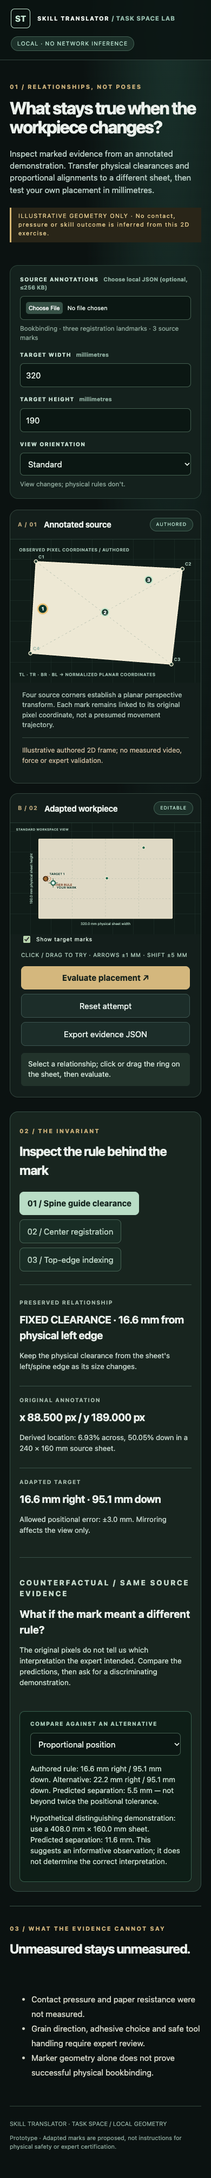
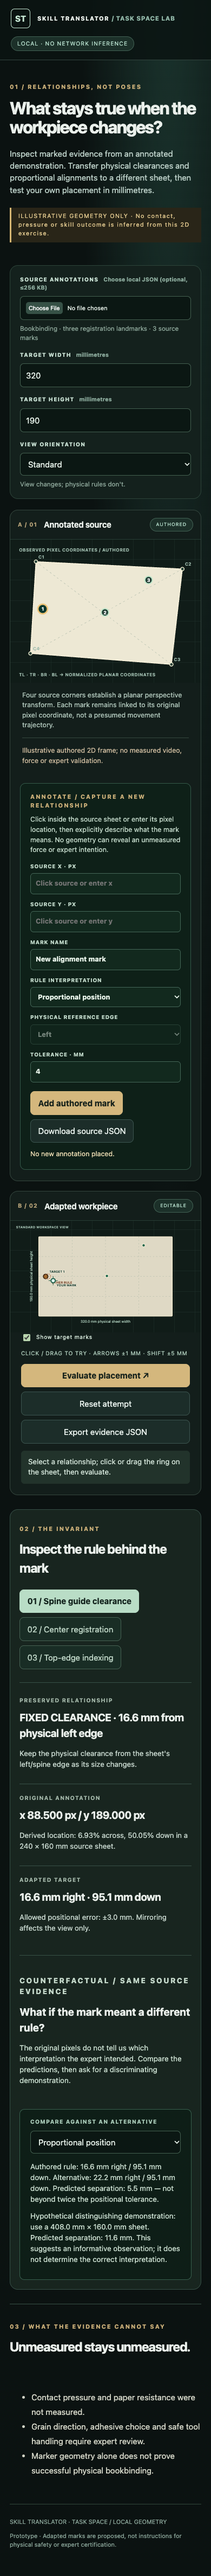
feat: add transactional task-mark authoring in the browser

Changed region(s): [[0.0308, 0.0, 0.9231, 0.9958], [0.8923, 0.3423, 0.9231, 0.3734], [0.8923, 0.1867, 0.9231, 0.2178]]

diff --git a/web/styles.css b/web/styles.css
@@ -56,7 +56,18 @@ svg{display:block;width:100%;height:auto;touch-action:none;user-select:none}
 .detail-label{color:#a3b7a9;font-size:.68rem;letter-spacing:.13em;font-weight:700}
 .main-detail{font-size:1.3rem;font-weight:690;margin:9px 0;letter-spacing:-.025em}
 .detail-grid p:not(.main-detail){color:#c3d3ca;font-size:.89rem}
- .hypothesis-box{margin-top:26px;padding-top:23px;border-top:1px solid #385147;display:grid;grid-template-columns:1fr 1.3fr;gap:28px}
+ .author-panel{padding:17px 18px;margin:8px 18px 20px;background:#0e2018;border:1px solid #345949;border-radius:10px}
+.author-panel .eyebrow{margin:0 0 8px}
+.author-intro{color:#bed4c5;font-size:.83rem;line-height:1.5;margin:0 0 14px}
+.author-grid{display:grid;grid-template-columns:1fr 1fr;gap:12px}
+.author-grid label{font-size:.65rem;letter-spacing:.08em;color:#bdd5c6;font-weight:730;display:block}
+.author-grid input,.author-grid select{display:block;width:100%;min-width:0;border:1px solid #456758;color:#e7f3e9;background:#12291e;padding:9px;border-radius:6px;font-size:.84rem;letter-spacing:0;margin-top:5px}
+.author-grid select:disabled{opacity:.46}
+.author-wide{grid-column:1/-1}
+.author-actions{display:flex;flex-wrap:wrap;gap:8px;margin-top:16px}
+.author-status{color:#e4d6ad;min-height:20px;font-size:.83rem;margin:12px 0 0}
+.source-draft{fill:#ca862e;stroke:#fbf3d8;stroke-width:3;stroke-dasharray:4 2}
+.hypothesis-box{margin-top:26px;padding-top:23px;border-top:1px solid #385147;display:grid;grid-template-columns:1fr 1.3fr;gap:28px}
 .hypothesis-box h3{font-size:1.3rem;margin:6px 0}.hypothesis-box p{color:#c5d9cb;font-size:.9rem}
 .hypothesis-results{padding:15px 19px;background:#0e1e17;border:1px solid #38604d;border-radius:9px}
 .hypothesis-results label{display:block;color:#a3c4b2;font-size:.68rem;letter-spacing:.12em;font-weight:750;margin-bottom:9px}
@@ -68,4 +79,4 @@ svg{display:block;width:100%;height:auto;touch-action:none;user-select:none}
 footer{border-top:1px solid #31473c;padding:24px 0 40px;display:flex;gap:30px;justify-content:space-between;color:#8ba69a;font-size:.73rem}
 @media(max-width:1080px){.toolbar{grid-template-columns:repeat(2,minmax(0,1fr))}.workspace{grid-template-columns:1fr}.detail-grid{gap:12px}}
 @media(max-width:750px){.hypothesis-box{grid-template-columns:1fr}}
-@media(max-width:620px){.topbar{flex-wrap:wrap}.brand{font-size:.72rem}.hero{padding:31px 0}.toolbar{grid-template-columns:1fr;gap:15px;padding:18px}.panel-head{padding:14px}.panel-head h2{font-size:1rem}.panel-badge{font-size:.58rem}.inspector{padding:17px}.detail-grid,.limits{grid-template-columns:1fr}.detail-grid>div:not(:last-child){border-right:0;border-bottom:1px solid #385147;padding:0 0 12px}footer{display:block}footer span{display:block;margin-bottom:10px}.actions button{flex:1;min-width:160px}}
+@media(max-width:620px){.author-grid{grid-template-columns:1fr}.topbar{flex-wrap:wrap}.brand{font-size:.72rem}.hero{padding:31px 0}.toolbar{grid-template-columns:1fr;gap:15px;padding:18px}.panel-head{padding:14px}.panel-head h2{font-size:1rem}.panel-badge{font-size:.58rem}.inspector{padding:17px}.detail-grid,.limits{grid-template-columns:1fr}.detail-grid>div:not(:last-child){border-right:0;border-bottom:1px solid #385147;padding:0 0 12px}footer{display:block}footer span{display:block;margin-bottom:10px}.actions button{flex:1;min-width:160px}}

diff --git a/web/index.html b/web/index.html
@@ -47,9 +47,23 @@
   <section class="workspace" aria-label="Comparison workbench">
     <article class="work-panel">
       <div class="panel-head"><span class="step">A / 01</span><h2>Annotated source</h2><span class="panel-badge">AUTHORED</span></div>
-      <svg id="sourceSvg" viewBox="0 0 520 390" aria-label="Annotated source page with numbered marks" role="img"></svg>
+      <svg id="sourceSvg" viewBox="0 0 520 390" tabindex="0" role="application" aria-label="Annotated source page with numbered marks. Click inside page to propose a new source annotation; or use the numeric coordinate fields below."></svg>
       <p class="undergraph">Four source corners establish a planar perspective transform. Each mark remains linked to its original pixel coordinate, not a presumed movement trajectory.</p>
       <p class="source-provenance" id="provenance"></p>
+      <form id="authorForm" class="author-panel">
+        <p class="eyebrow">ANNOTATE / CAPTURE A NEW RELATIONSHIP</p>
+        <p class="author-intro">Click inside the source sheet or enter its pixel location, then explicitly describe what the mark means. No geometry can reveal an unmeasured force or expert intention.</p>
+        <div class="author-grid">
+          <label for="sourceX">SOURCE X · PX<input id="sourceX" type="number" step="any" placeholder="Click source or enter x"></label>
+          <label for="sourceY">SOURCE Y · PX<input id="sourceY" type="number" step="any" placeholder="Click source or enter y"></label>
+          <label class="author-wide" for="annotationLabel">MARK NAME<input id="annotationLabel" type="text" maxlength="100" value="New alignment mark" required></label>
+          <label for="annotationKind">RULE INTERPRETATION<select id="annotationKind"><option value="fraction">Proportional position</option><option value="edge_offset_mm">Fixed physical edge clearance</option></select></label>
+          <label for="annotationEdge">PHYSICAL REFERENCE EDGE<select id="annotationEdge" disabled><option value="left">Left</option><option value="right">Right</option><option value="top">Top</option><option value="bottom">Bottom</option></select></label>
+          <label for="annotationTolerance">TOLERANCE · MM<input id="annotationTolerance" type="number" value="4" min="0.1" max="50" step="0.1"></label>
+        </div>
+        <div class="author-actions"><button class="primary" type="submit">Add authored mark</button><button id="downloadSource" type="button">Download source JSON</button></div>
+        <p id="annotationStatus" role="status" class="author-status">No new annotation placed.</p>
+      </form>
     </article>
     <article class="work-panel work-panel-target">
       <div class="panel-head"><span class="step">B / 02</span><h2>Adapted workpiece</h2><span class="panel-badge">EDITABLE</span></div>

diff --git a/README.md b/README.md
@@ -15,6 +15,8 @@ The included demonstration is **authored, synthetic 2D bookbinding registration 
 
 The **competing interpretation** inspector treats the same original landmark as potentially meaning another physical-edge clearance or a proportional position. Its dashed alternative position and numerical separation update with sheet size, while a bounded counterfactual proposes a different sheet size that would separate predictions. This identifies useful follow-up **observations**, not the correct rule or a real demonstration outcome.
 
+The **source annotation studio** also lets you click a point directly on the pictured sheet (or type source pixel coordinates), name it, explicitly choose proportional or fixed-edge semantics, set its tolerance and add the mark transactionally. Invalid source points or incompatible physical rules are refused without overwriting existing annotations. Download the revised annotation JSON locally to retain and reimport your evidence; the server does not store it.
+
 You can load your **own local annotated geometry JSON** (≤256 KB) without uploading it. The tool visualizes annotations, transfers each declared invariant and refuses degenerate calibration or a target too small to maintain fixed physical clearance. It does **not** infer invariant types from video; the author must label each relationship.
 
 ## Source JSON contract
